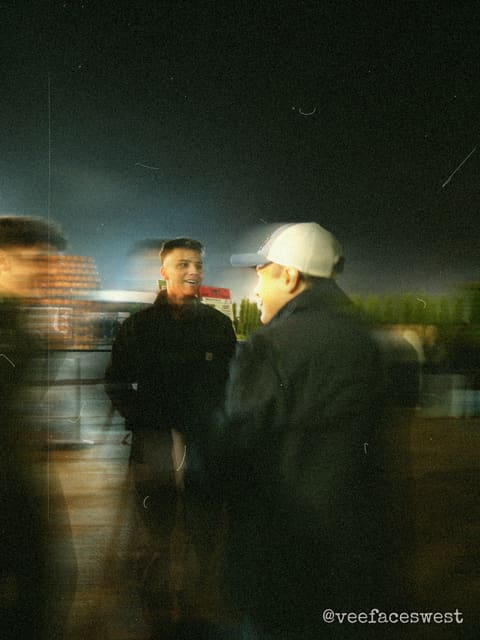
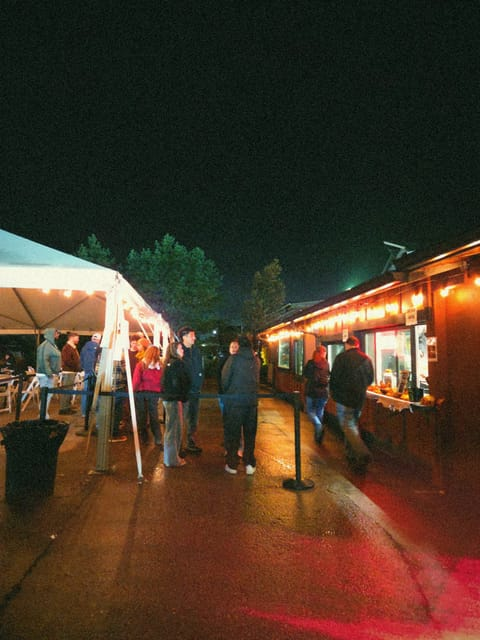
Diwali page: partner styling, photos then sign-up, Mine-first roll, flash off
- Diwali theme matched to the partner's posts: midnight navy, cream
  condensed capitals (Anton) with a red 3D drop, marigold and gold.
- Join: sample prints, then the sign-up right under them; instructions
  after. Coming-soon: prints, the share QR, then the countdown.
- Copy: 'Free dispo cam photos'; photos are saved online (not 'on this
  phone') and everyone gets them at the reveal time.
- 'blindshot is made by @veefaceswest' on the join and coming-soon pages.
- Roll: two tabs, Mine (default) and Everyone; host picks tab gone.
- Flash is off until the guest turns it on.
- Sample prints: three of the owner's Halloween frames, no credit.
- Times are built from parts in Pacific: server and Safari formatted
  dates differently, so iPhones re-rendered the page (hydration error).

Claude-Session: https://claude.ai/code/session_01Wk99triGJgHCxQDXJVoHGf

diff --git a/app/e/[code]/CameraApp.tsx b/app/e/[code]/CameraApp.tsx
@@ -1,7 +1,7 @@
 "use client";
 
 import { useEffect, useRef, useState, type FormEvent } from "react";
-import { instagramHandle } from "@/lib/config";
+import { MAKER_HANDLE, instagramHandle } from "@/lib/config";
 import { clock } from "./Countdown";
 
 type EventInfo = {
@@ -35,8 +35,25 @@ export default function CameraApp({ event, guest, qr }: { event: EventInfo; gues
           {event.subtitle && <><br />{event.subtitle}</>}
         </div>
       </header>
-      {event.soon ? <Soon event={event} /> : me ? <Camera event={event} me={me} qr={qr} /> : <Join event={event} qr={qr} onJoined={setMe} />}
+      {event.soon ? <Soon event={event} qr={qr} /> : me ? <Camera event={event} me={me} qr={qr} /> : <Join event={event} qr={qr} onJoined={setMe} />}
+      {(event.soon || !me) && (
+        <p className="made-by">
+          blindshot is made by <a href={`https://instagram.com/${MAKER_HANDLE}`} target="_blank" rel="noreferrer">@{MAKER_HANDLE}</a>
+        </p>
+      )}
     </div>
+  );
+}
+
+// What it is, in one breath: free photos, no app, the rhythm of the roll, and when everyone gets them.
+function Lede({ event }: { event: EventInfo }) {
+  return (
+    <p className="lede">
+      <b>Free dispo cam photos, all night. No app, just your phone.</b> {event.maxShots} shots a roll and rolls never run
+      out. Nobody sees a frame until the roll develops
+      {event.releaseAt && !event.released ? <span suppressHydrationWarning> ({formatWhen(event.releaseAt)})</span> : null}, then
+      everyone gets everything.
+    </p>
   );
 }
 
@@ -44,7 +61,7 @@ export default function CameraApp({ event, guest, qr }: { event: EventInfo; gues
 
 // The link works as soon as it's shared (say, in a promo post): what it is, how it works, and when sign-ups open.
 // The sign-up, consent and camera arrive at opening time, on their own: the page reloads when the clock hits zero.
-function Soon({ event }: { event: EventInfo }) {
+function Soon({ event, qr }: { event: EventInfo; qr: string }) {
   const opens = event.opensAt ? new Date(event.opensAt).getTime() : null;
   const [now, setNow] = useState<number | null>(null); // after mount, so server and phone render the same thing
   useEffect(() => {
@@ -59,16 +76,14 @@ function Soon({ event }: { event: EventInfo }) {
   return (
     <section className="stack">
       <h1 className="headline">A digital<br /><em>disposable camera.</em></h1>
-      <p className="lede">
-        <b>Free disposable camera photos, all night. No app, just your phone.</b> {event.maxShots} shots a roll and
-        rolls never run out. Nobody sees a frame until the party&apos;s roll develops, then everyone sees everything.
-      </p>
+      <Lede event={event} />
+      <Prints />
+      <ShareQr event={event} qr={qr} caption="Share it: friends can scan this" />
       <div className="soon" role="timer" suppressHydrationWarning>
         <span>Sign-ups open in</span>
         <b>{now !== null && opens ? clock(opens - now) : "…"}</b>
         {event.opensAt && <small suppressHydrationWarning>{formatWhen(event.opensAt)}</small>}
       </div>
-      <Prints />
       <HowItWorks event={event} />
       {event.decor ? <div className="toran" aria-hidden /> : <div className="stripes" aria-hidden><i /><i /><i /></div>}
       <p className="fine">Open this link again at the event (or scan the QR code there) to sign in with your name and start shooting.</p>
@@ -112,10 +127,8 @@ function Join({ event, qr, onJoined }: { event: EventInfo; qr: string; onJoined:
       <h1 className="headline">
         A digital<br /><em>disposable camera.</em>
       </h1>
-      <p className="lede"><b>No app, just your phone.</b> It works right here in your browser. {event.maxShots} shots a roll and rolls never run out. Nobody sees a frame until the party&apos;s roll develops, then everyone sees everything.</p>
+      <Lede event={event} />
       <Prints />
-      <HowItWorks event={event} />
-      {event.decor ? <div className="toran" aria-hidden /> : <div className="stripes" aria-hidden><i /><i /><i /></div>}
       <form onSubmit={submit} noValidate>
         <p className="fine"><b>That&apos;s the whole sign-up:</b> your first name, plus your Instagram if you want to be tagged. No email, no password, nothing to download.</p>
         <label className="field" htmlFor="name">First name
@@ -159,8 +172,10 @@ function Join({ event, qr, onJoined }: { event: EventInfo; qr: string; onJoined:
           <span>{busy ? "Loading film…" : agreed ? "Load film" : "Tick the box to load film"}</span>
           <span aria-hidden>→</span>
         </button>
-        <p className="fine">This phone remembers you: open the link again on it later and your shots are still yours.</p>
+        <p className="fine">No password: this phone remembers you, so open the link on it later to get back to your photos.</p>
       </form>
+      {event.decor ? <div className="toran" aria-hidden /> : <div className="stripes" aria-hidden><i /><i /><i /></div>}
+      <HowItWorks event={event} />
       <ShareQr event={event} qr={qr} />
     </section>
   );
@@ -179,14 +194,14 @@ const STEADY_FRAMES = 3; // in a row, before the shot
 // What you can and can't do, in five lines: shown before joining, and folded away under the camera.
 function HowItWorks({ event }: { event: EventInfo }) {
   const until = event.closesAt ? ` until ${formatWhen(event.closesAt)}` : "";
-  const roll = event.released ? "It's open now." : event.releaseAt ? `It opens ${formatWhen(event.releaseAt)}.` : "It opens when the host says so.";
+  const roll = event.released ? "It's open now." : event.releaseAt ? `Everyone gets their photos ${formatWhen(event.releaseAt)}.` : "It opens when the host says so.";
   return (
     <ol className="how" suppressHydrationWarning>
       <li><b>Shoot freely: film never runs out.</b> {event.maxShots} shots a roll, and a fresh roll loads the moment you finish. No previews: you see nothing until the roll opens.</li>
       <li><b>Wind, then shoot.</b> Drag or tap the wheel between shots. Flash on for dark rooms; ↻ Selfie flips the camera.</li>
       <li><b>Roll finished? Load another.</b> New film all night{until}.</li>
-      <li><b>One shared roll.</b> Everyone&apos;s photos, yours included. {roll}</li>
-      <li><b>Your shots stay with this phone.</b> Open the link again on it, any time, and they&apos;re under Mine.</li>
+      <li><b>One shared album.</b> Everyone&apos;s photos, yours included. {roll}</li>
+      <li><b>Your photos are saved online.</b> After the reveal, open this link on this phone: yours are under Mine, and you can download any photo.</li>
     </ol>
   );
 }
@@ -196,9 +211,9 @@ function Prints() {
   return (
     <figure className="prints">
       <div className="prints-row">
-        {[1, 2, 3, 4, 5, 6, 7, 8].map((n) => (
+        {[1, 2, 3].map((n) => (
           // eslint-disable-next-line @next/next/no-img-element
-          <img key={n} src={`/samples/${n}.jpg`} alt="" loading={n > 3 ? "lazy" : "eager"} decoding="async" />
+          <img key={n} src={`/samples/${n}.jpg`} alt="" decoding="async" />
         ))}
       </div>
       <figcaption>A few picks from a past night</figcaption>
@@ -207,11 +222,11 @@ function Prints() {
 }
 
 // The event's QR code, so a guest can hand the camera on: friends scan it straight off this phone.
-function ShareQr({ event, qr }: { event: EventInfo; qr: string }) {
+function ShareQr({ event, qr, caption = "Friends can scan this to join" }: { event: EventInfo; qr: string; caption?: string }) {
   return (
     <figure className="share-qr">
       <div dangerouslySetInnerHTML={{ __html: qr }} role="img" aria-label={`QR code to join ${event.name}`} />
-      <figcaption>Friends can scan this to join</figcaption>
+      <figcaption>{caption}</figcaption>
     </figure>
   );
 }
@@ -219,7 +234,7 @@ function ShareQr({ event, qr }: { event: EventInfo; qr: string }) {
 function Camera({ event, me, qr }: { event: EventInfo; me: Guest; qr: string }) {
   const [left, setLeft] = useState(event.maxShots - me.shotsUsed);
   const [wound, setWound] = useState(true);
-  const [flash, setFlash] = useState(true);
+  const [flash, setFlash] = useState(false); // off until the guest turns it on (it then charges for 1.5 s)
   const [charged, setCharged] = useState(true);
   const [cam, setCam] = useState<"starting" | "live" | "off">("starting");
   const [pending, setPending] = useState(0);
@@ -728,8 +743,13 @@ const nextFrame = (v: HTMLVideoElement) =>
   });
 const postJSON = (url: string, body: unknown) =>
   fetch(url, { method: "POST", headers: { "content-type": "application/json" }, body: JSON.stringify(body) });
-const formatWhen = (iso: string) =>
-  new Date(iso).toLocaleString([], { weekday: "short", month: "short", day: "numeric", hour: "numeric", minute: "2-digit" });
+// "Sun, Nov 8, 2:00 AM", always Pacific and built from parts: the server's and Safari's own date formats differ
+// ("Nov 8, 2:00" vs "Nov 8 at 2:00"), which made iPhones redraw the page (a hydration mismatch).
+const WHEN = new Intl.DateTimeFormat("en-US", { timeZone: "America/Los_Angeles", weekday: "short", month: "short", day: "numeric", hour: "numeric", minute: "2-digit" });
+const formatWhen = (iso: string) => {
+  const p = Object.fromEntries(WHEN.formatToParts(new Date(iso)).map((x) => [x.type, x.value]));
+  return `${p.weekday}, ${p.month} ${p.day}, ${p.hour}:${p.minute} ${p.dayPeriod}`;
+};
 function buzz(p: number | number[]) {
   try { navigator.vibrate?.(p); } catch {}
 }

diff --git a/app/e/[code]/roll/page.tsx b/app/e/[code]/roll/page.tsx
@@ -9,13 +9,13 @@ import HostOnly from "../HostOnly";
 import Sheet from "./Sheet";
 
 const PAGE = 40;
-type Tab = "all" | "picks" | "mine";
+type Tab = "all" | "mine"; // Mine first: guests land on their own shots, Everyone is one tap away
 
 export default async function RollPage({ params, searchParams }: PageProps<"/e/[code]/roll">) {
   const event = await openEvent((await params).code);
   if (!event) notFound();
   const sp = await searchParams;
-  const tab: Tab = sp.tab === "picks" || sp.tab === "mine" ? sp.tab : "all";
+  const tab: Tab = sp.tab === "all" ? "all" : "mine";
   const limit = Math.min(2000, Math.max(PAGE, Number(sp.n) || PAGE));
   const [session, admin] = await Promise.all([currentSession(event.id, event.code), isAdmin()]);
 
@@ -58,20 +58,19 @@ export default async function RollPage({ params, searchParams }: PageProps<"/e/[
   const mine = session?.device_id ? sql`(s.id = ${me} or s.device_id = ${session.device_id})` : sql`s.id = ${me}`;
   // Visible to guests: processed, not hidden by the host, and not from someone who kept their roll private (unless it's yours).
   const visible = sql`p.event_id = ${event.id} and p.status = 'done' and not p.hidden and (not s.private_roll or ${mine})`;
-  const [counts] = await sql<{ n_all: number; n_picks: number; n_mine: number }[]>`
+  const [counts] = await sql<{ n_all: number; n_mine: number }[]>`
     select count(*)::int as n_all,
-           count(*) filter (where p.starred)::int as n_picks,
            count(*) filter (where ${mine})::int as n_mine
     from photos p join sessions s on s.id = p.session_id where ${visible}`;
   const rows = await sql<{ id: string; filtered_path: string; name: string; shot_number: number; starred: boolean; mine: boolean }[]>`
     select p.id, p.filtered_path, s.name, p.shot_number, p.starred, ${mine} as mine
     from photos p join sessions s on s.id = p.session_id
     where ${visible}
-      ${tab === "picks" ? sql`and p.starred` : tab === "mine" ? sql`and ${mine}` : sql``}
+      ${tab === "mine" ? sql`and ${mine}` : sql``}
     order by p.captured_at desc nulls last, p.created_at desc
     limit ${limit}`;
   const url = readUrls(FILTERED);
-  const total = tab === "all" ? counts.n_all : tab === "picks" ? counts.n_picks : counts.n_mine;
+  const total = tab === "all" ? counts.n_all : counts.n_mine;
   const tabLink = (t: Tab, label: string, n: number) => (
     <a href={`?tab=${t}`} aria-current={tab === t ? "page" : undefined}>{label}<small>{n.toLocaleString()}</small></a>
   );
@@ -84,9 +83,8 @@ export default async function RollPage({ params, searchParams }: PageProps<"/e/[
       {night.photos > 0 && <NightStats s={night} />}
       <TagNote handle={MAKER_HANDLE} />
       <div className="tabs">
-        {tabLink("all", "Everyone", counts.n_all)}
-        {tabLink("picks", "Host picks", counts.n_picks)}
         {tabLink("mine", "Mine", counts.n_mine)}
+        {tabLink("all", "Everyone", counts.n_all)}
       </div>
       <Sheet
         cards={event.look === "polaroid" || event.look === "photobooth"}
@@ -101,19 +99,18 @@ export default async function RollPage({ params, searchParams }: PageProps<"/e/[
 }
 
 type Night = {
-  photos: number; kept: number; guests: number; rolls: number; picks: number; first: Date | null; last: Date | null;
+  photos: number; kept: number; guests: number; rolls: number; first: Date | null; last: Date | null;
   busiest: { hour: Date; n: number } | null; top: { name: string; n: number } | null;
 };
 
 // The night in numbers: every photo taken (developed) counts, including ones their photographers kept private; `kept`
-// says how many of those aren't on the shared roll. Host picks count only shared frames, so the Picks tab matches.
+// says how many of those aren't on the shared roll.
 async function nightStats(eventId: string): Promise<Night> {
   const taken = sql`p.event_id = ${eventId} and p.status = 'done'`;
   const shared = sql`p.event_id = ${eventId} and p.status = 'done' and not p.hidden and not s.private_roll`;
-  const [t] = await sql<{ photos: number; kept: number; picks: number; first: Date | null; last: Date | null; guests: number; rolls: number }[]>`
+  const [t] = await sql<{ photos: number; kept: number; first: Date | null; last: Date | null; guests: number; rolls: number }[]>`
     select count(*)::int as photos,
            count(*) filter (where s.private_roll and not p.hidden)::int as kept,
-           count(*) filter (where p.starred and not p.hidden and not s.private_roll)::int as picks,
            min(p.captured_at) as first, max(p.captured_at) as last,
            (select count(*)::int from sessions where event_id = ${eventId}) as guests,
            (select coalesce(sum(rolls), 0)::int from sessions where event_id = ${eventId}) as rolls
@@ -139,7 +136,6 @@ function NightStats({ s }: { s: Night }) {
         <div><b>{s.photos.toLocaleString()}</b><span>photos</span></div>
         <div><b>{s.guests}</b><span>cameras</span></div>
         <div><b>{s.rolls}</b><span>rolls of film</span></div>
-        <div><b>{s.picks}</b><span>host picks</span></div>
       </div>
       <p className="fine">
         {s.first && s.last && <>First shot {time(s.first)}, last {time(s.last)}. </>}

diff --git a/app/globals.css b/app/globals.css
@@ -14,20 +14,24 @@
   color-scheme: light;
 }
 /* Diwali night: navy #001F3B, marigold, saffron, bright red */
+/* Diwali: matched to the partner's carnival posts. Midnight navy, cream type with a red 3D drop, marigold + gold,
+   condensed poster capitals (Anton) for headlines. */
 .theme-diwali {
-  --bg: #001F3B; --bg-2: #00294D; --fg: #F3EEDD; --muted: #9DB3CC; --line: rgba(243, 238, 221, 0.16);
-  --dots: rgba(247, 181, 38, 0.10); --dots-2: rgba(227, 20, 30, 0.12);
-  --body: #00335F; --body-2: #0A4377; --well: #00101F; --cam-fg: #F3EEDD; --cam-muted: #9DB3CC;
-  --ridge: #1E5487; --ridge-ready: #8A6A1E; --vf-ring: #F7B526;
-  --accent: #F7B526; --accent-2: #F07A1A; --hot: #E3141E; --on-accent: #001F3B;
-  --cta: #F7B526; --cta-ink: #001F3B; --cta-shadow: #E3141E;
-  --shutter: #E3141E; --shutter-deep: #8A0A10; --shutter-ink: #F3EEDD; --shutter-ring: #F7B526;
-  --hl-em: #F7B526; --hl-shadow: 3px 3px 0 #E3141E;
-  --band: linear-gradient(#F7B526 0 33.3%, #E3141E 0 66.6%, #F7B526 0);
-  --chip-bg: #001F3B; --chip-fg: #F7B526; --leaf: #3F8F3A; --flash: #FFF8E6;
-  --hl-font: var(--font-rozha), Georgia, serif; --hl-weight: 400; --hl-stretch: 100%;
+  --bg: #1A2038; --bg-2: #232B4A; --fg: #F6E7C8; --muted: #C9BFA8; --line: rgba(246, 231, 200, 0.16);
+  --dots: rgba(242, 169, 59, 0.10); --dots-2: rgba(201, 56, 43, 0.12);
+  --body: #232B4A; --body-2: #2E3860; --well: #121729; --cam-fg: #F6E7C8; --cam-muted: #C9BFA8;
+  --ridge: #3A4570; --ridge-ready: #8A6A1E; --vf-ring: #F2A93B;
+  --accent: #F2A93B; --accent-2: #EC7F1F; --hot: #C9382B; --on-accent: #1A2038;
+  --cta: #F2A93B; --cta-ink: #1A2038; --cta-shadow: #C9382B;
+  --shutter: #C9382B; --shutter-deep: #7E1E17; --shutter-ink: #F6E7C8; --shutter-ring: #F2A93B;
+  --hl-em: #F2A93B;
+  --hl-shadow: 1px 1px 0 #C9382B, 2px 2px 0 #C9382B, 3px 3px 0 #C9382B, 4px 4px 0 #C9382B, 5px 5px 0 #7E1E17;
+  --band: linear-gradient(#F2A93B 0 33.3%, #C9382B 0 66.6%, #F2A93B 0);
+  --chip-bg: #1A2038; --chip-fg: #F2A93B; --leaf: #3F8F3A; --flash: #FFF8E6;
+  --hl-font: var(--font-anton), Impact, sans-serif; --hl-weight: 400; --hl-stretch: 100%;
   color-scheme: dark;
 }
+.theme-diwali .headline { text-transform: uppercase; letter-spacing: 0.01em; line-height: 1; }
 /* Halloween: night black-purple, pumpkin, slime green, bone white */
 .theme-halloween {
   --bg: #120A1C; --bg-2: #1D1030; --fg: #F2E8D5; --muted: #A99BBF; --line: rgba(242, 232, 213, 0.16);
@@ -221,7 +225,7 @@ label.field input:focus { outline: none; border-bottom-color: var(--accent); }
 .panel { display: flex; flex-direction: column; gap: 8px; padding: 16px; background: var(--bg-2); border: 1px solid var(--line); border-radius: 16px; }
 .row { display: flex; justify-content: space-between; gap: 12px; font-size: 14px; }
 .row span:first-child { color: var(--muted); }
-.tabs { display: grid; grid-template-columns: repeat(3, 1fr); background: var(--bg-2); border: 1px solid var(--line); border-radius: 999px; padding: 4px; gap: 4px; }
+.tabs { display: grid; grid-auto-flow: column; grid-auto-columns: 1fr; background: var(--bg-2); border: 1px solid var(--line); border-radius: 999px; padding: 4px; gap: 4px; }
 .tabs a { text-align: center; text-decoration: none; border-radius: 999px; padding: 8px 6px; font-size: 13px; font-weight: 600; color: var(--muted); }
 .tabs a[aria-current="page"] { background: var(--accent); color: var(--on-accent); }
 .tabs small { display: block; font-weight: 400; font-size: 11px; opacity: 0.8; font-variant-numeric: tabular-nums; }
@@ -268,7 +272,7 @@ label.field input:focus { outline: none; border-bottom-color: var(--accent); }
 .look-pick button { border: 1px solid #1A0A04; background: transparent; color: #1A0A04; border-radius: 999px; padding: 4px 10px; font-size: 12px; font-weight: 600; }
 .look-pick button[aria-pressed="true"] { background: #1A0A04; color: #F0A73A; }
 .night { display: flex; flex-direction: column; gap: 8px; }
-.night-grid { display: grid; grid-template-columns: repeat(4, 1fr); gap: 8px; }
+.night-grid { display: grid; grid-template-columns: repeat(3, 1fr); gap: 8px; }
 .night-grid div { background: var(--bg-2); border: 1px solid var(--line); border-radius: 12px; padding: 10px 6px; display: flex; flex-direction: column; align-items: center; }
 .night-grid b { font-size: 22px; font-variant-numeric: tabular-nums; color: var(--accent); }
 .night-grid span { font-size: 11px; color: var(--muted); text-align: center; }
@@ -373,3 +377,5 @@ label.field input:focus { outline: none; border-bottom-color: var(--accent); }
 .soon span { font-size: 13px; letter-spacing: 0.08em; text-transform: uppercase; color: var(--muted); }
 .soon b { font-size: 34px; letter-spacing: 0.04em; font-variant-numeric: tabular-nums; color: var(--accent); }
 .soon small { font-size: 13px; color: var(--muted); }
+.made-by { margin: 28px 0 8px; text-align: center; font-size: 12px; color: var(--muted); }
+.made-by a { color: var(--accent); text-decoration: none; font-weight: 600; }

diff --git a/e2e/guest.spec.ts b/e2e/guest.spec.ts
@@ -157,6 +157,8 @@ for (const focusCheck of [false, true]) {
     try {
       await join(page, e.code);
       await expect.poll(() => page.locator("video").evaluate((v: HTMLVideoElement) => v.videoWidth)).toBeGreaterThan(0);
+      await page.getByRole("button", { name: "Flash off" }).click(); // off by default; the guest turns it on
+      await page.waitForTimeout(1700); // the flash charges for 1.5 s
       const t = Date.now();
       await page.getByRole("button", { name: "SHOOT" }).click();
       await expect(page.getByLabel("1 shots left")).toBeVisible();
@@ -196,7 +198,9 @@ test("flip to the front camera for a selfie: mirrored preview, the screen is the
     expect(facings[0]).toBe("exact:environment"); // back camera first...
     expect(facings).toContain("exact:user"); // ...then the app insists on the front one
     expect(facings.at(-1)).toMatch(/user$/); // and the flip stays on it
-    await page.getByRole("button", { name: "SHOOT" }).click(); // flash is on by default: the screen lights up first
+    await page.getByRole("button", { name: "Flash off" }).click(); // off by default; turned on, the screen is the flash
+    await page.waitForTimeout(1700); // it charges for 1.5 s
+    await page.getByRole("button", { name: "SHOOT" }).click(); // the screen lights up first
     await expect(page.getByLabel("1 shots left")).toBeVisible();
     await expect(page.locator(".flashfx")).not.toHaveClass(/hold/); // and goes back off
     await waitDeveloped(e.id, 1);
@@ -328,7 +332,9 @@ test("before opening: the link shows what it is and a countdown, no sign-up; the
   try {
     await page.goto(`/e/${e.code}`);
     await expect(page.getByText("Sign-ups open in")).toBeVisible();
-    await expect(page.getByText(/Free disposable camera photos, all night/)).toBeVisible();
+    await expect(page.getByText(/Free dispo cam photos, all night/)).toBeVisible();
+    await expect(page.getByRole("img", { name: /QR code to join/ })).toBeVisible(); // shareable before it opens
+    await expect(page.getByRole("link", { name: "@veefaceswest" })).toBeVisible(); // who made it
     await expect(page.getByLabel("First name")).toHaveCount(0); // no sign-up, no consent, no camera yet
     await expect(page.locator("#consent")).toHaveCount(0);
     await expect(page.getByLabel("First name")).toBeVisible({ timeout: 20_000 }); // opening time: the page turns into the sign-up

diff --git a/app/layout.tsx b/app/layout.tsx
@@ -1,5 +1,5 @@
 import type { Metadata, Viewport } from "next";
-import { Archivo, Creepster, Instrument_Sans, Pirata_One, Rozha_One } from "next/font/google";
+import { Anton, Archivo, Creepster, Instrument_Sans, Pirata_One, Rozha_One } from "next/font/google";
 import "./globals.css";
 
 const archivo = Archivo({ subsets: ["latin"], axes: ["wdth"], variable: "--font-archivo" });
@@ -7,6 +7,7 @@ const instrument = Instrument_Sans({ subsets: ["latin"], variable: "--font-instr
 const rozha = Rozha_One({ subsets: ["latin"], weight: "400", variable: "--font-rozha" });
 const creepster = Creepster({ subsets: ["latin"], weight: "400", variable: "--font-creepster" });
 const pirata = Pirata_One({ subsets: ["latin"], weight: "400", variable: "--font-pirata" });
+const anton = Anton({ subsets: ["latin"], weight: "400", variable: "--font-anton" });
 
 export const metadata: Metadata = {
   title: "blindshot",
@@ -17,7 +18,7 @@ export const viewport: Viewport = { width: "device-width", initialScale: 1, view
 
 export default function RootLayout({ children }: LayoutProps<"/">) {
   return (
-    <html lang="en" className={`${archivo.variable} ${instrument.variable} ${rozha.variable} ${creepster.variable} ${pirata.variable}`}>
+    <html lang="en" className={`${archivo.variable} ${instrument.variable} ${rozha.variable} ${creepster.variable} ${pirata.variable} ${anton.variable}`}>
       <body>{children}</body>
     </html>
   );

diff --git a/e2e/api.spec.ts b/e2e/api.spec.ts
@@ -276,7 +276,7 @@ test("darkroom: password gate, star a frame, release the roll", async ({ page, b
   await expect(page.getByRole("button", { name: "★ Starred" })).toBeVisible();
   await page.getByRole("button", { name: "Release the roll now" }).click();
   await expect(page.getByRole("button", { name: "Hide the roll again" })).toBeVisible();
-  expect(await frames(a, e, "picks")).toBe(1);
+  expect(await (await a.get(`/e/${e.code}/roll?tab=picks`)).text()).not.toContain("Host picks"); // guests get Mine + Everyone only
 
   // hiding takes a frame off the guests' roll
   expect(await frames(a, e)).toBe(1);

diff --git a/CLAUDE.md b/CLAUDE.md
@@ -66,7 +66,9 @@ events) · `npm run load -- 100` (burst test against the live site) · `npm run 
   count only shared frames so the Picks tab matches. The events page (`/e/admin`) shows guests, rolls, photos.
 - **Roll page** shows "Posting a frame? Tag @handle" and "Want a roll at your party? Message": always the maker's
   handle (`MAKER_HANDLE` in `lib/config.ts`), whatever credit the photos carry.
-- **Join-page sample prints** (`public/samples/`) are the host's own photos, hand-picked, no recognisable faces (motion blur is fine), web-size, no EXIF; the caption says they are picks.
+- **Join-page sample prints** (`public/samples/`) are the host's own photos, picked by the owner to show off the film
+  effects (6 Nov: three Halloween frames re-developed without the credit; the promo post uses a separate set), web-size 480x640, no EXIF, no clearly
+  recognisable guests (the repo is public); the caption says they are picks.
 - **House look (updated 6 Nov for Diwali):** `green-night` + `--overlays`, 13 shots, no opt-outs (default;
   `--opt-outs` re-enables them), **no `--credit`** (each photo carries its guest's @handle, else first name, so every
   frame can be traced to who took it) and **no `--date-stamp`** (the owner dropped it). Halloween used host credit +
